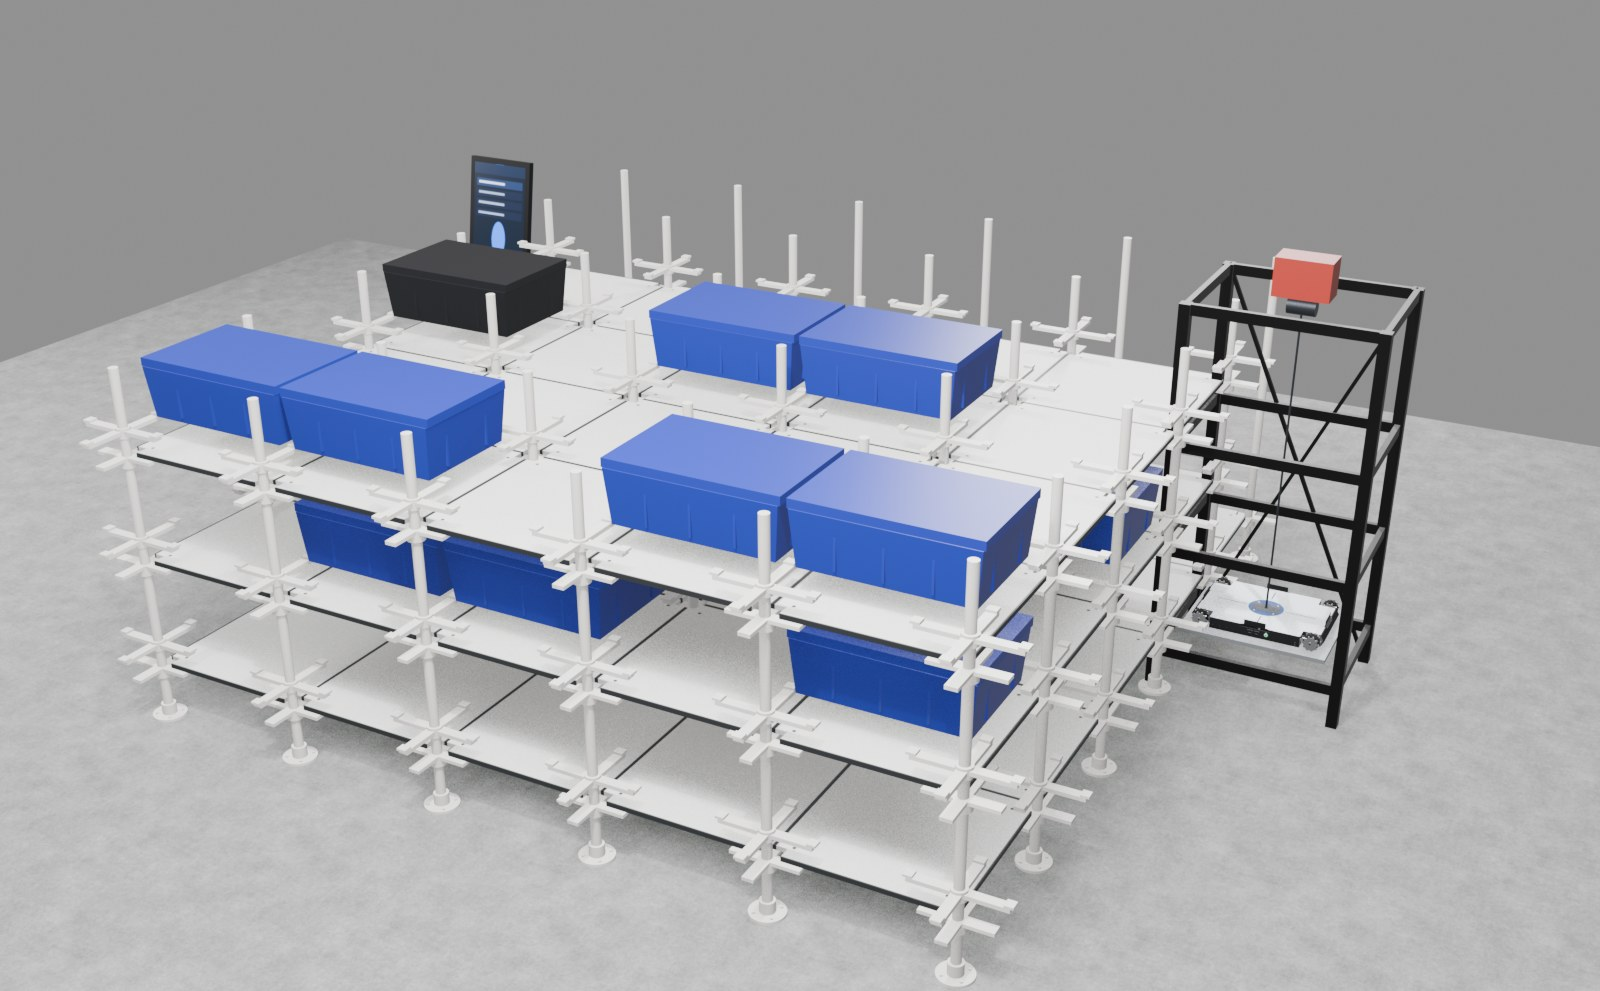
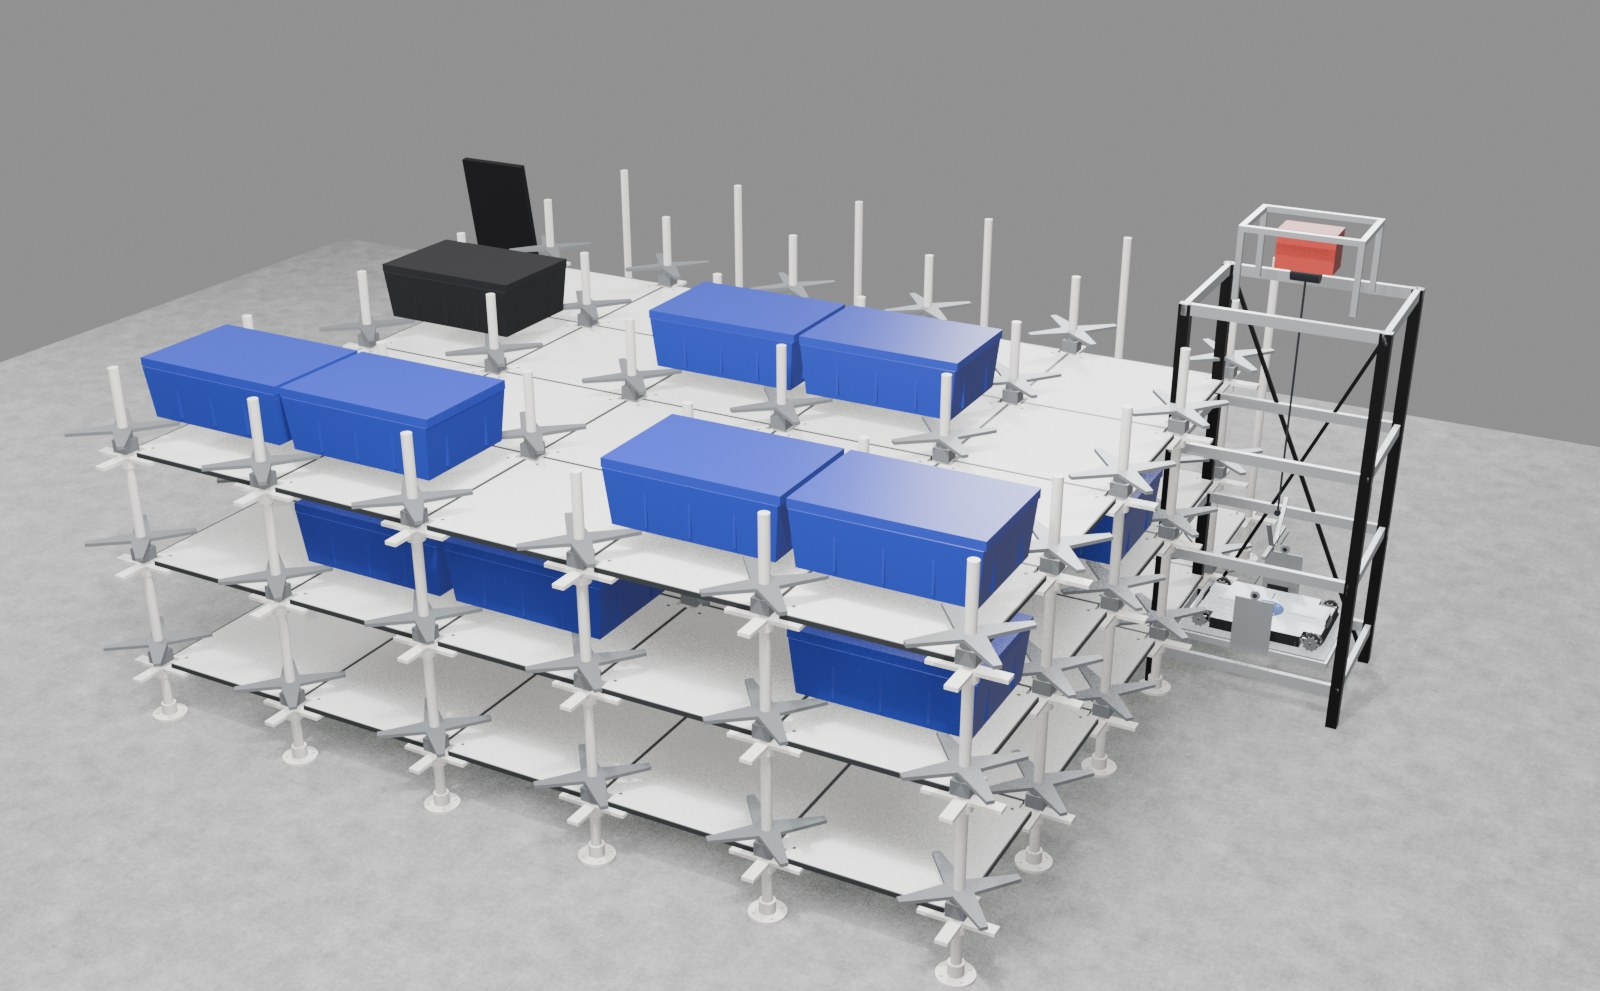
feat: ASRS system — the lift module and the cradles after the company's own references
The elevator's lift module is now what the photos show: a truss of 25 mm extrusion under a
floor plate, a vertical plate on each long side carrying a lifting ring, a yoke joining both
rings to one hook — and the hoist's cable takes that hook, so the line hangs from the module
and winds it up and down (the tower gets silver ring frames per deck and a hoist sub-frame).
The kiosk turns 180° to face the rack and its stations.

The cradle is remodelled after the company's render: a square hub cap on the post and a
tapered four-arm star turned 45° to the grid, so each arm reaches under the corner of the bin
in that cell. The old grid-aligned cross ran along the seams between bins and touched nothing.
The tips stop short of the robot's deck footprint (81 × 144 mm in from the post), so a lift
still passes them. blendkit's Part gains a polygon prism for the star.

diff --git a/src/components/AsrsSim.tsx b/src/components/AsrsSim.tsx
@@ -41,7 +41,8 @@ const OPTS: FleetOpts = {
   sideAisle: true,
   fillEvery: 3,
 };
-const ELEV_TOP = OPTS.levels * LEVEL_H + 0.45; // the tower's top ring; the drum sits 40 mm under it
+const ELEV_TOP = OPTS.levels * LEVEL_H + 0.45; // the tower's top ring; the hoist drum sits 80 mm above it
+const YOKE = 0.44; // the lift module's yoke apex, where the hoist cable takes it, above its deck
 
 type Snapshot = {
   t: number;
@@ -220,8 +221,9 @@ export function AsrsSim() {
         elevator.group.position.set(OPTS.elevator[0] * PITCH, 0, OPTS.elevator[1] * PITCH);
         world.add(elevator.group);
 
-        const kiosk = makeKiosk(sys); // its screen already faces the viewer's side
+        const kiosk = makeKiosk(sys);
         kiosk.position.set(-1.35 * PITCH, FLOOR_Y, -1.05 * PITCH);
+        kiosk.rotation.y = Math.PI; // screen toward the rack and its stations
         world.add(kiosk);
 
         // a soft highlight ring that follows the focused robot
@@ -301,9 +303,9 @@ export function AsrsSim() {
           }
           const carY = fleet.elevLevel * LEVEL_H; // the carriage's top face is the deck it serves
           elevator.carriage.position.y = carY;
-          const cableLen = Math.max(0.02, ELEV_TOP - 0.04 - (carY + 0.05)); // yoke top to the drum
+          const cableLen = Math.max(0.02, ELEV_TOP + 0.08 - (carY + YOKE)); // yoke apex to the drum
           elevator.cable.scale.y = cableLen;
-          elevator.cable.position.y = carY + 0.05;
+          elevator.cable.position.y = carY + YOKE;
 
           if (focus !== null) {
             const r = fleet.robots[focus];

diff --git a/tools/asrs/build_system.py b/tools/asrs/build_system.py
@@ -6,7 +6,7 @@ Run headless:
 
 After the company's renders and the N09 prototype photo: white tube posts on flanged feet, a
 cast cross joint under every tile corner, laminated deck tiles with the dark seam the robots
-follow, a cradle cross with pads at every post that a Euro bin (600 × 400 × 220) rests on,
+follow, a four-arm cradle star at every post that a Euro bin (600 × 400 × 220) rests on by its corners,
 the elevator tower of black extrusion with a red hoist, and the kiosk.
 
 The site instances the single-mesh parts per cell (`Post`, `Foot`, `DeckJoint`, `Cradle`,
@@ -16,7 +16,7 @@ tiles at the top face centre; cradles and deck joints on the post axis at deck l
 joint hangs below, the cradle stands above); bins at their bottom centre.
 
 Units: mm here, metres in the GLB (Y-up). Scene frame: X across the columns, Y toward the
-front of the rack (three.js −Z), Z up. Level pitch 408, tile pitch 620, cradle pads at 88.
+front of the rack (three.js −Z), Z up. Level pitch 408, tile pitch 620, cradle arms top out at 88.
 """
 import argparse
 import math
@@ -86,6 +86,7 @@ def materials(tiles):
         "bin_blue": material("Bin_Blue", srgb("2434a4"), 0.32),
         "bin_black": material("Bin_Black", srgb("17181c"), 0.4),
         "anodised": material("Anodised", srgb("141416"), 0.4, metallic=0.6),
+        "alu": material("Aluminium", srgb("c9ccd0"), 0.38, metallic=0.75),
         "red": material("Hoist_Red", srgb("a8332c"), 0.42),
         "steel": material("Steel", srgb("9a9ea3"), 0.45, metallic=0.6),
         "dark": material("Dark_Steel", srgb("3a3d43"), 0.4, metallic=0.7),
@@ -135,13 +136,20 @@ def build_parts(root, M):
     p.box((240, 40, 12), (0, 0, -6), M["white"])
     p.box((40, 240, 12), (0, 0, -6), M["white"])
     parts["DeckJoint"] = link("DeckJoint", p.mesh("DeckJoint"), root)
-    # the cradle: a collar and a cross of arms with rubber-height pads the bin sits on
+    # the cradle, after the company's render: a square hub cap on the post and a tapered
+    # four-arm star turned 45° to the grid, so each arm reaches under the corner of the bin in
+    # that cell (the bin's underside starts 32 × 122 mm in from the post). The tips stop short
+    # of the robot's deck (81 × 144 mm in from the post) so a lift passes them.
     p = Part()
-    p.cyl(27, 36, (0, 0, CRADLE_H - 18), M["white"], segs=24)
-    p.box((320, 34, 14), (0, 0, CRADLE_H - 15), M["white"])
-    p.box((34, 320, 14), (0, 0, CRADLE_H - 15), M["white"])
-    for dx, dy in ((155, 0), (-155, 0), (0, 155), (0, -155)):
-        p.box((30, 34, 8) if dy == 0 else (34, 30, 8), (dx, dy, CRADLE_H - 4), M["white"])
+    p.box((60, 60, 46), (0, 0, 23), M["steel"])  # one material: the site instances it as one primitive
+    p.cyl(28, 30, (0, 0, 61), M["steel"], segs=24)
+    star = []
+    for k in range(4):
+        a = math.radians(45 + 90 * k)
+        d, n = (math.cos(a), math.sin(a)), (-math.sin(a), math.cos(a))
+        star += [(184 * d[0] - 12 * n[0], 184 * d[1] - 12 * n[1]), (184 * d[0] + 12 * n[0], 184 * d[1] + 12 * n[1]),
+                 (45 * math.cos(a + math.pi / 4), 45 * math.sin(a + math.pi / 4))]
+    p.prism(star, CRADLE_H - 12, CRADLE_H, M["steel"])
     parts["Cradle"] = link("Cradle", p.mesh("Cradle"), root)
     # the deck tile, corners notched round the posts, top face at the origin
     h, n = PITCH / 2, 45.0
@@ -151,7 +159,8 @@ def build_parts(root, M):
     # Euro bins, blue and black
     for name, mat in (("Bin_Blue", M["bin_blue"]), ("Bin_Black", M["bin_black"])):
         parts[name] = link(name, bin_mesh(name, mat), root)
-    # the elevator tower for two storage levels, its carriage and a unit cable
+    # the elevator tower for two storage levels (after the prototype: black corner extrusions,
+    # silver ring frames at every deck, a hoist sub-frame on top), its lift module and a unit cable
     elev = empty("Elevator", root)
     top = 2 * LEVEL_H + 450
     p = Part()
@@ -159,18 +168,45 @@ def build_parts(root, M):
         p.box((40, 40, top - FLOOR_Z), (sx, sy, (top + FLOOR_Z) / 2), M["anodised"])
     for z in [lv * LEVEL_H - TILE_T - 40 for lv in range(3)] + [top]:
         for sy in (-270, 270):
-            p.box((710, 20, 40), (0, sy, z - 20), M["anodised"])
+            p.box((710, 20, 40), (0, sy, z - 20), M["alu"])
         for sx in (-335, 335):
-            p.box((20, 580, 40), (sx, 0, z - 20), M["anodised"])
-    for s in (1, -1):  # diagonal braces on the back face
+            p.box((20, 580, 40), (sx, 0, z - 20), M["alu"])
+    for s_ in (1, -1):  # diagonal braces on the back face
         L = math.hypot(670, top - FLOOR_Z)
-        p.box((14, 14, L), (0, 270, (top + FLOOR_Z) / 2), M["anodised"], rot=Matrix.Rotation(s * math.atan2(670, top - FLOOR_Z), 4, "Y"))
-    p.box((200, 120, 140), (0, 0, top + 70), M["red"])  # the hoist
-    p.cyl(30, 100, (0, 0, top - 40), M["dark"], axis="X", segs=16)  # its drum
+        p.box((14, 14, L), (0, 270, (top + FLOOR_Z) / 2), M["anodised"], rot=Matrix.Rotation(s_ * math.atan2(670, top - FLOOR_Z), 4, "Y"))
+    for sx, sy in ((-200, -150), (200, -150), (-200, 150), (200, 150)):  # the hoist sub-frame
+        p.box((20, 20, 260), (sx, sy, top + 130), M["alu"])
+    for sy in (-150, 150):
+        p.box((420, 20, 20), (0, sy, top + 250), M["alu"])
+    for sx in (-200, 200):
+        p.box((20, 320, 20), (sx, 0, top + 250), M["alu"])
+    p.box((200, 120, 140), (0, 0, top + 170), M["red"])  # the hoist, hung under the sub-frame
+    p.cyl(30, 100, (0, 0, top + 80), M["dark"], axis="X", segs=16)  # its drum, the cable leaves it downward
     link("Frame", p.mesh("Frame"), elev)
+    # the lift module: a truss of 25 mm extrusion under a floor plate, a vertical plate on each
+    # long side carrying a lifting ring, a triangular yoke above joined to both rings — the hoist
+    # cable takes the yoke's apex, so the deck stays clear for the robot
     p = Part()
-    p.box((540, 420, TILE_T), (0, 0, -TILE_T / 2), M["steel"])
-    p.box((100, 60, 50), (0, 0, 25), M["dark"])
+    p.box((540, 420, 6), (0, 0, -3), M["steel"])
+    for sy in (-207.5, 207.5):
+        p.box((560, 25, 25), (0, sy, -18.5), M["alu"])
+    for sx in (-267.5, 267.5):
+        p.box((25, 440, 25), (sx, 0, -18.5), M["alu"])
+    for sx, sy in ((-1, -1), (1, -1), (-1, 1), (1, 1)):  # corner → centre diagonals
+        L = math.hypot(255, 195)
+        p.box((L - 30, 25, 25), (sx * 127.5, sy * 97.5, -18.5), M["alu"], rot=Matrix.Rotation(math.atan2(sy * 195, sx * 255), 4, "Z"))
+    p.box((510, 25, 25), (0, 0, -18.5), M["alu"])  # centre spine
+    p.box((90, 90, 4), (0, 0, -8), M["steel"])  # the hub plate the diagonals meet under
+    for sy in (-1, 1):
+        p.box((140, 6, 215), (0, sy * 217, 76.5), M["steel"])  # end plates
+        p.cyl(18, 6, (0, sy * 217, 200), M["steel"], axis="Y", segs=20)  # the lifting ring
+        p.cyl(9, 8, (0, sy * 217, 200), M["dark"], axis="Y", segs=16)  # its eye (the hole)
+        p.cyl(2.5, 118, (0, sy * 217 - sy * 34, 260), M["dark"], axis="Y", segs=6)  # short line to the yoke corner
+    for sy in (-1, 1):  # the yoke: two bars up to the apex, a bar across the bottom
+        L = math.hypot(150, 110)
+        p.box((14, L, 14), (0, sy * 75, 375), M["steel"], rot=Matrix.Rotation(sy * math.atan2(150, 110), 4, "X"))
+    p.box((14, 300, 14), (0, 0, 320), M["steel"])
+    p.cyl(12, 10, (0, 0, 440), M["dark"], axis="Y", segs=16)  # the hook's ring at the apex
     link("Carriage", p.mesh("Carriage"), elev)
     p = Part()
     p.cyl(4, 1000, (0, 0, 500), M["dark"], segs=8)
@@ -275,10 +311,11 @@ def demo(parts, robot_glb):
     for ch in parts["Elevator"].children:
         ob = instance(ch, "e", elev, ch.location * 1000)  # the parts sit in metres now
         if ch.name == "Cable":
-            ob.scale = (1, 1, (2 * LEVEL_H + 450 - 40 - 50) / 1000)
-            ob.location = (0, 0, 50)
+            ob.scale = (1, 1, (2 * LEVEL_H + 450 + 80 - 440) / 1000)
+            ob.location = (0, 0, 440)
     kx, ky = -1.35 * PITCH, 1.05 * PITCH
-    kiosk = instance(parts["Kiosk"], "k", root, (kx, ky, FLOOR_Z))  # its screen faces −Y, the viewer's side
+    kiosk = instance(parts["Kiosk"], "k", root, (kx, ky, FLOOR_Z))
+    kiosk.rotation_euler = (0, 0, math.pi)  # turned to face the rack and its stations, as the owner asked
     for ch in parts["Kiosk"].children:
         instance(ch, "ks", kiosk, ch.location * 1000).rotation_euler = ch.rotation_euler
     me, c = box_mesh("DemoGround", (-4000, 6000, -4000, 3000, FLOOR_Z - 2, FLOOR_Z), [parts["Ground"].data.materials[0]], uv=1000)

diff --git a/tools/blendkit.py b/tools/blendkit.py
@@ -139,6 +139,17 @@ class Part:
         bmesh.ops.translate(self.bm, verts=vs + vt, vec=Vector(at))
         self._tag(mat)
 
+    def prism(self, poly, z0, z1, mat):
+        """A polygon in XY (counter-clockwise, concave allowed) extruded from z0 to z1."""
+        vb = [self.bm.verts.new((x, y, z0)) for x, y in poly]
+        vt = [self.bm.verts.new((x, y, z1)) for x, y in poly]
+        self.bm.faces.new(vb[::-1])
+        self.bm.faces.new(vt)
+        for i in range(len(poly)):
+            j = (i + 1) % len(poly)
+            self.bm.faces.new((vb[i], vb[j], vt[j], vt[i]))
+        self._tag(mat)
+
     def cyl(self, r, h, at, mat, axis="Z", segs=32, r2=None, smooth=True):
         rot = {"Z": Matrix.Identity(4), "X": Matrix.Rotation(math.pi / 2, 4, "Y"), "Y": Matrix.Rotation(math.pi / 2, 4, "X")}[axis]
         m = Matrix.Translation(Vector(at)) @ rot

diff --git a/docs/superpowers/specs/2026-09-10-asrs-robot-glb-design.md b/docs/superpowers/specs/2026-09-10-asrs-robot-glb-design.md
@@ -112,8 +112,8 @@ the picking-station geometry, and the story text of the cycle viewer.
 `tools/asrs/build_system.py` (helpers in `tools/blendkit.py`) models the rack after the
 company renders and the N09 prototype photo and exports `public/media/incheon-robotics/
 asrs-system.glb` (76 KB): single-mesh parts the site instances per cell — `Post` (1 m, scaled
-to height), `Foot`, `DeckJoint` (the cross casting under a tile corner), `Cradle` (cross arms
-with pads at 88 mm), `Tile` (620 × 620 × 16, corners notched, laminate texture whose dark edge
+to height), `Foot`, `DeckJoint` (the cross casting under a tile corner), `Cradle` (a hub cap and a
+four-arm star turned 45°, arms topping out at 88 mm under the bin corners, tips clear of the deck), `Tile` (620 × 620 × 16, corners notched, laminate texture whose dark edge
 strip becomes the guide line), `Bin_Blue`/`Bin_Black` (Euro 600 × 400 × 220, drafted, ribbed,
 hollow) — and groups dropped in whole: `Elevator` (black extrusion tower, red hoist, `Carriage`
 whose top is the deck it serves, unit `Cable`), `Kiosk` (with its emissive `Screen`), `Ground`
